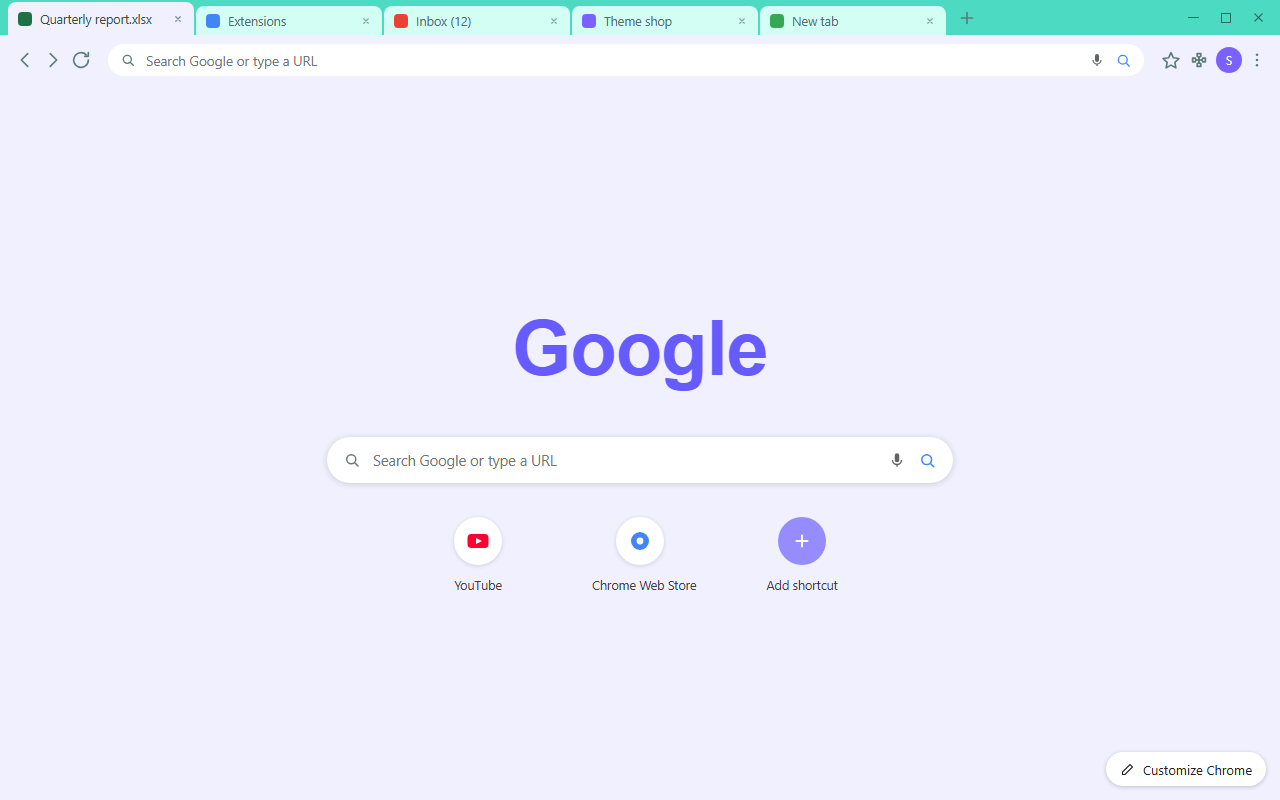
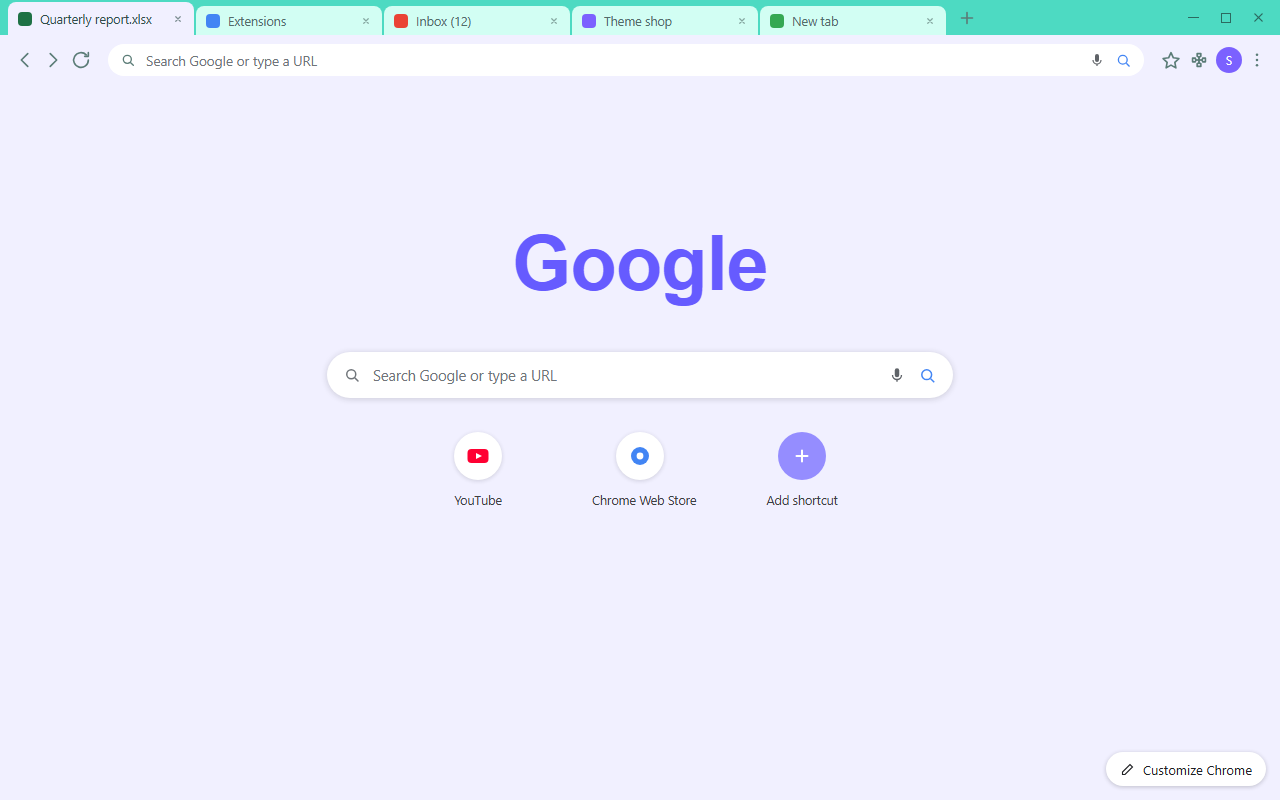
Lift the new tab block to the real browser position
The wordmark, search box and shortcut row were positioned from window coordinates but written inside the .ntp container, so they landed ~85px too low. They now match the positions measured on a real Chrome window: wordmark 34%, search box 46%, shortcuts 57%. Playwright also writes through a temp file now, since its own path handling fails with OSError 22 on this project's non-ASCII folder name.

diff --git a/store-assets/references/screenshot-1-browser.html b/store-assets/references/screenshot-1-browser.html
@@ -24,14 +24,16 @@
              display:flex; align-items:center; gap:10px; padding:0 12px; }
   .omni-icons { margin-left:auto; display:flex; align-items:center; gap:10px; }
   .ntp { position:absolute; left:0; right:0; top:85px; bottom:0; background:#F1F0FF; }
-  .wordmark { position:absolute; left:0; right:0; top:220px; text-align:center;
+  /* coordinates below are relative to .ntp (which starts at y=85), so they are
+     the real-browser window positions minus that 85px toolbar offset */
+  .wordmark { position:absolute; left:0; right:0; top:135px; text-align:center;
               font-size:76px; font-weight:700; letter-spacing:-1px;
               color:#665BFF; font-family:Arial, sans-serif; }
-  .searchbox { position:absolute; left:327px; top:352px; width:626px; height:46px;
+  .searchbox { position:absolute; left:327px; top:267px; width:626px; height:46px;
                border-radius:23px; background:#FFFFFF; box-shadow:0 1px 6px rgba(32,33,36,.18);
                display:flex; align-items:center; gap:12px; padding:0 16px; }
   .placeholder { flex:1; font-size:14.5px; color:#70757A; }
-  .shortcuts { position:absolute; left:0; right:0; top:432px; display:flex;
+  .shortcuts { position:absolute; left:0; right:0; top:347px; display:flex;
                justify-content:center; gap:66px; }
   .shortcut { width:96px; text-align:center; }
   .sicon { width:48px; height:48px; margin:0 auto 12px; border-radius:50%;

diff --git a/scripts/generate-screenshot.py b/scripts/generate-screenshot.py
@@ -19,6 +19,7 @@ Output: store-assets/screenshots/screenshot-1-browser.png
 
 import json
 import shutil
+import tempfile
 from pathlib import Path
 
 from playwright.sync_api import sync_playwright
@@ -95,14 +96,16 @@ def build_html(c):
              display:flex; align-items:center; gap:10px; padding:0 12px; }}
   .omni-icons {{ margin-left:auto; display:flex; align-items:center; gap:10px; }}
   .ntp {{ position:absolute; left:0; right:0; top:85px; bottom:0; background:{ntp}; }}
-  .wordmark {{ position:absolute; left:0; right:0; top:220px; text-align:center;
+  /* coordinates below are relative to .ntp (which starts at y=85), so they are
+     the real-browser window positions minus that 85px toolbar offset */
+  .wordmark {{ position:absolute; left:0; right:0; top:135px; text-align:center;
               font-size:76px; font-weight:700; letter-spacing:-1px;
               color:{WORDMARK}; font-family:Arial, sans-serif; }}
-  .searchbox {{ position:absolute; left:327px; top:352px; width:626px; height:46px;
+  .searchbox {{ position:absolute; left:327px; top:267px; width:626px; height:46px;
                border-radius:23px; background:#FFFFFF; box-shadow:0 1px 6px rgba(32,33,36,.18);
                display:flex; align-items:center; gap:12px; padding:0 16px; }}
   .placeholder {{ flex:1; font-size:14.5px; color:{PLACEHOLDER}; }}
-  .shortcuts {{ position:absolute; left:0; right:0; top:432px; display:flex;
+  .shortcuts {{ position:absolute; left:0; right:0; top:347px; display:flex;
                justify-content:center; gap:66px; }}
   .shortcut {{ width:96px; text-align:center; }}
   .sicon {{ width:48px; height:48px; margin:0 auto 12px; border-radius:50%;
@@ -254,7 +257,12 @@ def main():
                                     device_scale_factor=1)
             page.set_content(html, wait_until="load")
             out = SHOTS / f"{name}.png"
-            page.screenshot(path=str(out))
+            # Playwright writes through its own path handling, which chokes
+            # (OSError 22) on this project's non-ASCII folder name; shoot to a
+            # temp file first and copy with Python's unicode-aware shutil.
+            tmp = Path(tempfile.gettempdir()) / f"seafoam-{name}.png"
+            page.screenshot(path=str(tmp))
+            shutil.copyfile(tmp, out)
             page.close()
             (REFS / f"{name}.html").write_text(html, encoding="utf-8")
             shutil.copyfile(out, REFS / f"{name}.png")
